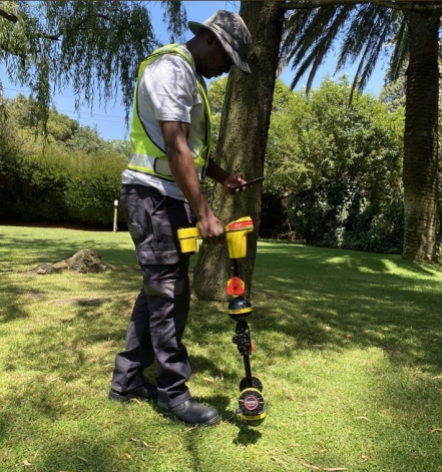
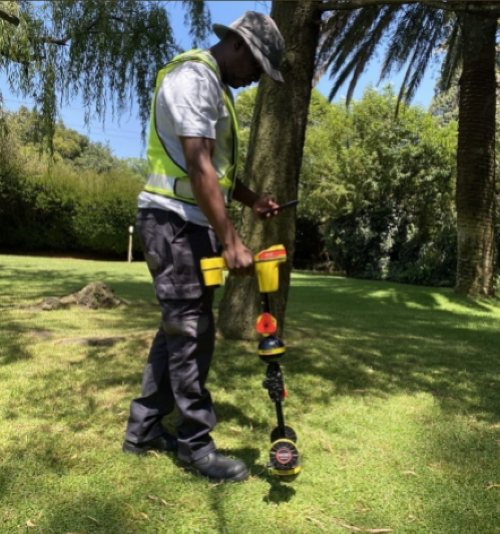
Refactor code structure for improved readability and maintainability

diff --git a/index.html b/index.html
@@ -110,7 +110,7 @@
     <nav>
       <a href="#inicio" data-translate="inicio">Início</a>
       <a href="#sobre" data-translate="sobre">Sobre Nós</a>
-      <a href="#servicos" data-translate="servicos">Serviços</a>
+      <a href="servicos.html" data-translate="servicos">Serviços</a>
       <a href="#projetos" data-translate="projetos">Projetos</a>
       <a href="#contacto" data-translate="contacto">Contacto</a>
     </nav>
@@ -125,21 +125,21 @@
     </div>
     <div class="carousel-inner">
       <div class="carousel-item active">
-        <img src="img/logotipo.jpg" class="d-block w-100" alt="HG Consulting & Engineering">
+        <img src="img/logotipo 500x500.png" class="d-block mx-auto" alt="HG Consulting & Engineering" style="max-width: 100%; height: auto; width: 500px;">
         <div class="carousel-caption">
           <h3 data-translate="solucoesEngenharia">Soluções em Engenharia</h3>
           <p data-translate="expertiseProj">Expertise em projetos AVAC, hidráulica e elétrica</p>
         </div>
       </div>
       <div class="carousel-item">
-        <img src="img/1-localizacao-do-utilitario.png" class="d-block w-100" alt="HG Consulting & Engineering">
+        <img src="img/1-localizacao-do-utilitario.png" class="d-block mx-auto" alt="HG Consulting & Engineering" style="max-width: 100%; height: auto; width: 500px;">
         <div class="carousel-caption">
           <h3 data-translate="consultoriaEsp">Consultoria Especializada</h3>
           <p data-translate="gestaoProjetos">Gestão de projetos e consultoria técnica</p>
         </div>
       </div>
       <div class="carousel-item">
-        <img src="img/2-penetracao-no-solo.png" class="d-block w-100" alt="HG Consulting & Engineering">
+        <img src="img/2-penetracao-no-solo.png" class="d-block mx-auto" alt="HG Consulting & Engineering" style="max-width: 100%; height: auto; width: 566px;">
         <div class="carousel-caption">
           <h3 data-translate="formacaoProf">Formação Profissional</h3>
           <p data-translate="capacitacao">Capacitação e desenvolvimento técnico</p>
@@ -161,7 +161,10 @@
     </section>
 
     <section id="sobre">
-      <h2 data-translate="sobre">Sobre Nós</h2>
+      <h2 data-translate="sobre">Quem Somos</h2>
+      <p><span>HG Consulting & Engineering, Lda é um consórcio   inovador localizado em Moçambique e África do Sul, fornecendo soluções avançadas em diagnósticos de tubulações, avaliação avançada da condição de activos e localização, radar de penetração no solo, pesquisas, detecção de fugas e serviços de reabilitação de dutos; electromecânica; perfuração mineira e transportes de inertes.
+Liderada por uma equipe dinâmica de profissionais experientes e especialistas, o consórcio oferece a estratégia mais apropriada para lidar com a sua gestão avançada de serviços públicos/privados, nas áreas de actuação.
+</span></p>
       <p><strong data-translate="missao">Missão:</strong> <span data-translate="missaoTexto">Prestar serviços de engenharia, consultoria, inspeção e formação profissional com foco na eficiência, segurança e proteção ambiental.</span></p>
       <p><strong data-translate="visao">Visão:</strong> <span data-translate="visaoTexto">Ser uma empresa de referência nacional e internacional na área da engenharia e consultoria.</span></p>
       <p><strong data-translate="valores">Valores:</strong> <span data-translate="valoresTexto">Comprometimento, qualidade, responsabilidade ambiental, inovação, formação contínua.</span></p>
